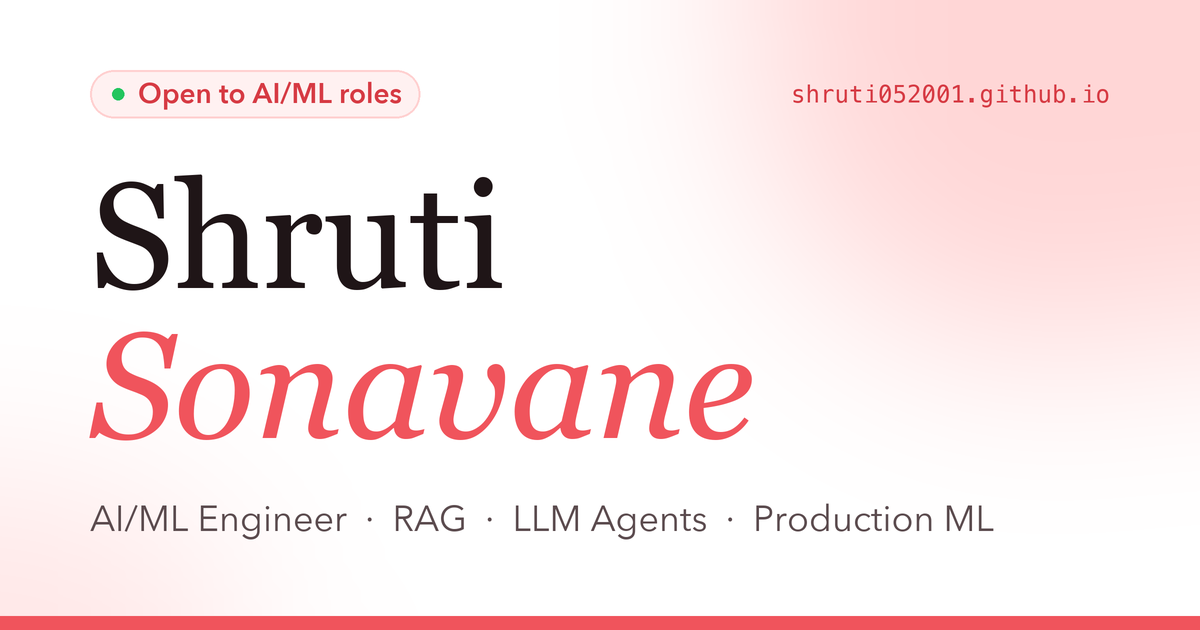
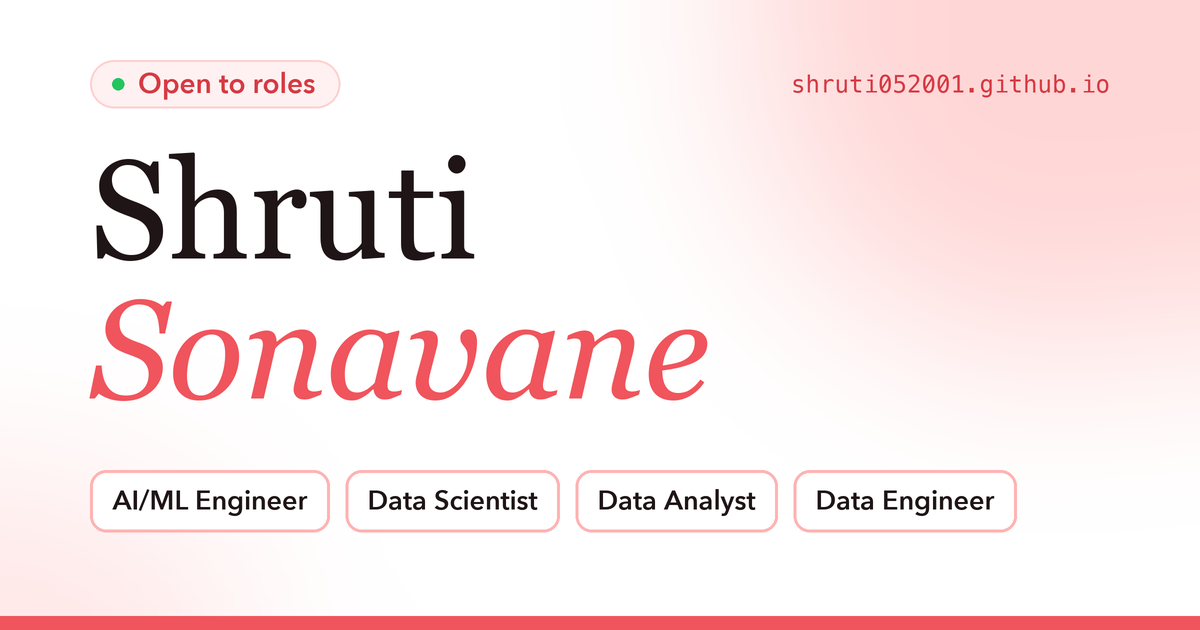
Highlight open-to roles and conversational AI interest

diff --git a/index.html b/index.html
@@ -4,11 +4,11 @@
 <meta charset="UTF-8">
 <meta name="viewport" content="width=device-width, initial-scale=1.0">
 <title>Shruti Sonavane · AI/ML Engineer</title>
-<meta name="description" content="Shruti Sonavane — AI/ML Engineer building RAG systems, LLM agents, and production ML.">
+<meta name="description" content="Shruti Sonavane — AI/ML Engineer open to AI/ML Engineer, Data Scientist, Data Analyst, and Data Engineer roles. RAG, conversational AI, LLM agents, and production ML.">
 <meta name="theme-color" content="#f0545c">
 <meta property="og:type" content="website">
 <meta property="og:title" content="Shruti Sonavane · AI/ML Engineer">
-<meta property="og:description" content="RAG systems, LLM agents, and production ML — from prototype to production in banking and retail.">
+<meta property="og:description" content="Open to AI/ML Engineer, Data Scientist, Data Analyst, and Data Engineer roles. RAG, conversational AI, LLM agents, and production ML.">
 <meta property="og:url" content="https://shruti052001.github.io/">
 <meta property="og:image" content="https://shruti052001.github.io/assets/og-image.png">
 <meta property="og:image:width" content="1200">
@@ -153,6 +153,26 @@
   .btn-primary:hover { background: var(--red-deep); transform: translateY(-2px); }
   .btn-ghost { background: var(--surface); color: var(--ink); border: 1.5px solid var(--rose-200); }
   .btn-ghost:hover { border-color: var(--red); color: var(--red-deep); transform: translateY(-2px); }
+  .open-to {
+    margin-bottom: 28px; padding: 16px 18px; border-radius: 18px;
+    background: var(--rose-50); border: 1.5px solid var(--rose-200);
+    max-width: 600px; position: relative;
+  }
+  .open-to-head { display: flex; align-items: center; gap: 8px; font-size: 13px; font-weight: 800; letter-spacing: .6px; text-transform: uppercase; color: var(--red-deep); margin-bottom: 12px; }
+  .open-to-head .dot { width: 8px; height: 8px; border-radius: 50%; background: #22c55e; box-shadow: 0 0 0 4px rgba(34,197,94,.18); animation: pulse 2s infinite; }
+  .open-to-head small { margin-left: auto; font-size: 12px; font-weight: 600; text-transform: none; letter-spacing: 0; color: var(--ink-faint); }
+  .role-pills { display: flex; flex-wrap: wrap; gap: 8px; }
+  .role-pill {
+    display: inline-flex; align-items: center; gap: 7px;
+    font-size: 14px; font-weight: 700; color: var(--ink);
+    background: var(--surface); border: 1.5px solid var(--rose-200);
+    padding: 7px 12px; border-radius: 12px; transition: all .2s;
+  }
+  .role-pill:hover { background: var(--red); border-color: var(--red); color: #fff; transform: translateY(-2px); }
+  .role-pill span { font-size: 15px; }
+  .open-to .role-pills { display: grid; grid-template-columns: repeat(2, 1fr); }
+  .open-to .role-pill { justify-content: flex-start; }
+  .contact .role-pills { justify-content: center; margin: -12px auto 32px; max-width: 640px; }
   .stats { display: flex; gap: 36px; margin-top: 48px; flex-wrap: wrap; }
   .stat b { font-family: var(--serif); font-size: 44px; font-weight: 400; color: var(--red); line-height: 1; display: block; }
   .stat span { font-size: 13px; color: var(--ink-faint); font-weight: 600; }
@@ -344,6 +364,11 @@
     .wrap { padding-left: 16px; padding-right: 16px; }
     nav .hide-sm { display: none; }
     .card, .card.small { grid-column: span 6; }
+    .open-to { padding: 14px; }
+    .open-to .role-pills { gap: 6px; }
+    .open-to .role-pill { font-size: 13px; padding: 7px 9px; gap: 5px; white-space: nowrap; }
+    .open-to-head { flex-wrap: wrap; }
+    .open-to-head small { margin-left: 16px; width: 100%; }
     nav { gap: 0; }
     nav a:not(.logo) { padding: 8px 9px; }
     nav .logo { padding: 4px 8px; }
@@ -379,10 +404,18 @@
 
 <header class="wrap hero" id="top">
   <div>
-    <div class="badge"><span class="dot"></span> Open to AI/ML roles · Open to relocate</div>
+    <div class="open-to" aria-label="Roles I'm open to">
+      <div class="open-to-head"><span class="dot"></span>Open to roles<small>Full-time · Open to relocate</small></div>
+      <div class="role-pills">
+          <span class="role-pill"><span>🤖</span>AI/ML Engineer</span>
+          <span class="role-pill"><span>🧪</span>Data Scientist</span>
+          <span class="role-pill"><span>📊</span>Data Analyst</span>
+          <span class="role-pill"><span>🛠</span>Data Engineer</span>
+        </div>
+    </div>
     <h1>Shruti<br><em>Sonavane</em></h1>
     <div class="role">I build <span class="typed" id="typed"></span></div>
-    <p class="lede">AI/ML Engineer with 3+ years taking ML, NLP, and Generative AI systems from prototype to production across banking and retail. Most recently, compliance-grade RAG at Citigroup.</p>
+    <p class="lede">AI/ML Engineer with 3+ years taking ML, NLP, and Generative AI systems from prototype to production across banking and retail. Most recently, compliance-grade RAG at Citigroup. I'm especially interested in <b style="color:var(--red-deep)">conversational AI</b>: assistants and agents that hold real, grounded conversations.</p>
     <div class="cta">
       <a href="#projects" class="btn btn-primary">See my work →</a>
       <a href="assets/Shruti_Sonavane_Resume.pdf" download class="btn btn-ghost">Download résumé ↓</a>
@@ -546,7 +579,13 @@
   <div class="wrap">
     <p class="eyebrow reveal">05 · Contact</p>
     <h2 class="reveal">Let's build<br><em>something smart.</em></h2>
-    <p class="reveal">Based in North Carolina and open to relocate. I'm always happy to talk about RAG, agents, or the next hard ML problem.</p>
+    <p class="reveal">Based in North Carolina and open to relocate. I'm open to these roles and always happy to talk about conversational AI, RAG, agents, or the next hard data problem.</p>
+    <div class="role-pills reveal">
+      <span class="role-pill"><span>🤖</span>AI/ML Engineer</span>
+      <span class="role-pill"><span>🧪</span>Data Scientist</span>
+      <span class="role-pill"><span>📊</span>Data Analyst</span>
+      <span class="role-pill"><span>🛠</span>Data Engineer</span>
+    </div>
     <div class="socials reveal">
       <button class="btn btn-primary" id="copyEmail">✉ shrutisonavane0510@gmail.com</button>
       <!-- TODO: add LinkedIn URL and remove `hidden` --><a class="btn btn-ghost" href="#" target="_blank" rel="noopener" id="linkedinLink" hidden>LinkedIn ↗</a>
@@ -628,10 +667,10 @@ const PROJECTS = {
 
 // tiny "retrieval" knowledge base for the hero chat
 const KB = [
-  { k: ["work", "focus", "who", "summary", "background"], a: "Shruti builds production AI systems: RAG pipelines, LLM agents and copilots, fine-tuned NLP models, and the evaluation + monitoring around them.", c: "summary" },
+  { k: ["work", "focus", "who", "summary", "background", "interest", "conversation", "conversational"], a: "Shruti builds production AI systems: RAG pipelines, LLM agents and copilots, fine-tuned NLP models, and the evaluation + monitoring around them. She's especially interested in conversational AI.", c: "summary" },
   { k: ["citi", "citigroup", "impact", "bank", "audit"], a: "At Citigroup she shipped a secure RAG assistant for audit teams — 65% less manual review time and +28% retrieval accuracy — and cut inference compute 23% via eval-driven model retirement.", c: "experience/citigroup" },
   { k: ["stack", "tools", "framework", "langchain", "langgraph"], a: "Go-to stack: Python, LangGraph/LangChain, FAISS or Qdrant with hybrid search + Cohere Rerank, FastAPI, Docker, and Evidently AI for drift.", c: "skills" },
-  { k: ["open", "hire", "hiring", "available", "relocate", "job", "role"], a: "Yes! She's open to AI/ML Engineer roles and happy to relocate. Scroll to Contact to reach her.", c: "contact" },
+  { k: ["open", "hire", "hiring", "available", "relocate", "job", "role"], a: "Yes! She's open to AI/ML Engineer, Data Scientist, Data Analyst, and Data Engineer roles, and happy to relocate. Scroll to Contact to reach her.", c: "contact" },
   { k: ["project", "vendor", "rag", "agent", "agentic"], a: "Her flagship project is Vendor Mind — an agentic RAG assistant for SaaS spend with clause-aware chunking, cited answers, and an eval harness.", c: "projects/vendor-mind" },
   { k: ["fraud", "autoencoder", "keras"], a: "She built an unsupervised autoencoder in Keras that detects credit-card fraud via reconstruction error on a heavily imbalanced 284K-transaction dataset.", c: "projects/fraud" },
   { k: ["caption", "image", "vision", "lstm", "cnn", "densenet"], a: "She built an image caption generator: a DenseNet201 encoder + LSTM decoder trained on Flickr30k that writes a sentence describing any photo — on par with Google's Show & Tell baseline.", c: "projects/image-caption" },
